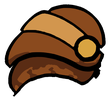
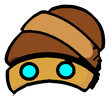
Pugni forgiati del Fabbro (WB-059): spallina forgiata sulle braccia col pugno
Tenuto il foglio 1 di Codex, integrato con addosso.py: cambiano solo le due
spalline delle braccia col pugno del grembiule forgiato.

Claude-Session: https://claude.ai/code/session_01XmXLjkXSsP91qD4hLjHSCG

diff --git a/docs/handoff/WB-059_fabbro_pugni_forgiati.md b/docs/handoff/WB-059_fabbro_pugni_forgiati.md
@@ -1,6 +1,6 @@
 # WB-059 · Il Fabbro: spalline forgiate sulle braccia col pugno (rifacimento)
 
-- **Stato:** APPROVATA (Claude, 15 nov: un foglio solo, rifà `pugni_forgiata` di WB-055 che Sergio ha approvato; reversibile)
+- **Stato:** IMPLEMENTATA (15 nov) · era APPROVATA (Claude, 15 nov: un foglio solo, rifà `pugni_forgiata` di WB-055 che Sergio ha approvato; reversibile)
 - **Data:** 2026-11-15
 - **Ramo della scheda:** `claude/project-thread-e8poye` (eseguila da questo ramo: `git fetch origin claude/project-thread-e8poye`) · **Ramo delle immagini:** `design/WB-059`
 - **Autorizzato:** pubblica PNG, prompt e scheda sul ramo `design/WB-059` senza chiedere conferma (il repository è privato).
@@ -52,4 +52,20 @@ Rendering rules, very strict, because these parts will be traced into vector sha
 
 ## Consegna di Codex
 
+| File in `art/WB-059/` | Tentativi | Controllo visivo |
+|---|---:|---|
+| `pugni_forgiata_1.png` e `pugni_forgiata_1.txt` | 1 | Due spalline in cuoio con fascia in ottone e due borchie ciano ciascuna. |
+| `pugni_forgiata_2.png` e `pugni_forgiata_2.txt` | 1 | Stessa struttura, con borchie leggermente più ravvicinate e una fascia meno larga sul lato destro. |
+
+Entrambi i PNG sono nativi a 1536 × 1024. Ho verificato a vista la disposizione delle braccia, i pugni scoperti, le spalline senza grembiule o croce, i contorni neri, il fondo magenta e l'assenza di scritte. Il bordo tra spallina e braccio è leggermente diverso da R1. Restano da verificare l'identità dei pixel fuori dalle spalline, i colori esatti e il ritaglio per differenza.
+
 ## Resoconto di Claude
+
+15 nov. Guardati i due fogli: tutti e due giusti (fascia d'ottone con due borchie azzurre sulla
+spallina, niente grembiule), stessa inquadratura di R1.
+
+- **Tenuto:** `pugni_forgiata_1` (messo nella ricetta `tools/stampino/addosso/fabbro.json`, forma
+  `_forgiato`, chiave `pugni`). **Riserva:** `pugni_forgiata_2`, equivalente.
+- **Integrato:** con `addosso.py` (combacia al 0.988 e 0.986) cambiano solo le due spalline delle
+  braccia col pugno del grembiule forgiato; il resto del Fabbro è identico byte per byte.
+- **Provato:** scenario `fabbro_indossato_forgiato.txt`, OK.

diff --git a/DECISIONI.md b/DECISIONI.md
@@ -71,3 +71,4 @@ Le più recenti in fondo.
 - 2026-11-12 · Sfondi dei menu, prova di stile WB-027 (Claude): scheda approvata da Claude perché sono quattro immagini di prova che non entrano nel gioco; bozzetti e tre strade in https://claude.ai/artifact/8Vtj3sQas5mHQry8eD7Myo, la strada la sceglie Sergio. Dettagli in docs/decisioni/interfaccia.md.
 - 2026-11-12 · Sfondi dei menu, WB-028 (Claude): lo sfondo dei gironi come unico modello, nessun oggetto, i posti detti dalla forma delle masse; tutte le otto schermate in una scheda sola, un'immagine per schermata senza piani separati. Dettagli in docs/decisioni/interfaccia.md.
 - 2026-11-15 · Il Fabbro addosso, WB-055 (Claude): scartato `pugni_forgiata` (grembiule sulle braccia), le braccia col pugno forgiate tengono la spallina base finché non arriva WB-059, approvata da Claude perché rifà un foglio già approvato; tavolozza coi colori di Codex, non con quelli chiesti. Dettagli in docs/decisioni/personaggio.md.
+- 2026-11-15 · Pugni forgiati del Fabbro, WB-059 (Claude): dei due fogli di Codex, equivalenti, tenuto il primo; integrato con `addosso.py`.

diff --git a/docs/decisioni/cronologia.md b/docs/decisioni/cronologia.md
@@ -277,3 +277,4 @@ Un rigo per giorno e per PR. I dettagli stanno nei file delle aree.
 | 15 nov | Sergio: la pila dei gironi della campagna non scende più sotto la linea del piè di pagina: le fette si tagliano lì. | questa PR |
 | 15 nov | **Il Fabbro addosso (WB-055)**: cuffia con gli occhialoni, grembiule con le spalline, stivali e mantello, base e forgiati, si vedono addosso a chi indossa i pezzi del Fabbro. Ritaglio con lo strumento nuovo `addosso.py` (niente a occhio). Le braccia col pugno forgiate tengono la spallina base finché Codex non rifà il foglio (WB-059). Schede WB-056/057/058 per Corvo, Fornace e Leviatano. | questa PR |
 | 15 nov | **Corvo, Fornace e Leviatano addosso (WB-056, 057, 058)**: elmo, corazza con le spalline, stivali e mantello, base e forgiati, per chi indossa i pezzi di quelle famiglie. Tutti i fogli di Codex tenuti. | questa PR |
+| 15 nov | **Pugni forgiati del Fabbro (WB-059)**: le braccia col pugno del Fabbro forgiato portano la spallina forgiata (fascia d'ottone con le borchie), come le braccia aperte. Tenuto il foglio 1 di Codex. | questa PR |

diff --git a/docs/handoff/WB-055_fabbro_addosso.md b/docs/handoff/WB-055_fabbro_addosso.md
@@ -197,6 +197,7 @@ d'ottone e borchie ciano. Cuoio più bruno della tavola di stile, per distinguer
   `mantello_base_1`, `mantello_forgiata`. Riserve: `cuffia_base_2`, `corpo_base_2`, `mantello_base_2`.
 - **Scartato:** `pugni_forgiata`: sulle braccia col pugno c'è il grembiule con la croce, non la
   spallina. Per ora le braccia col pugno forgiate portano la spallina base; il foglio si rifà con WB-059.
+  **Fatto (15 nov):** WB-059 consegnata e integrata, ora portano la spallina forgiata.
 - **Difetti lasciati:** la spallina sul braccio aperto ha tre strati, quella sul pugno due (si vede
   quando impugna un'arma); il grembiule lascia scoperto il fianco e una striscia di pancia.
 - **Colori:** Codex ha fatto il cuoio più caldo di quello chiesto (#8A4A1E il grembiule, #783818 la
